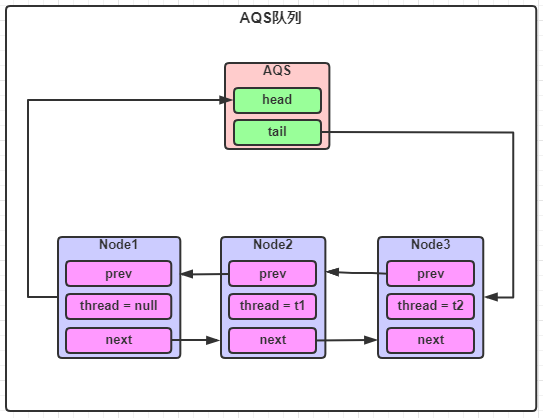
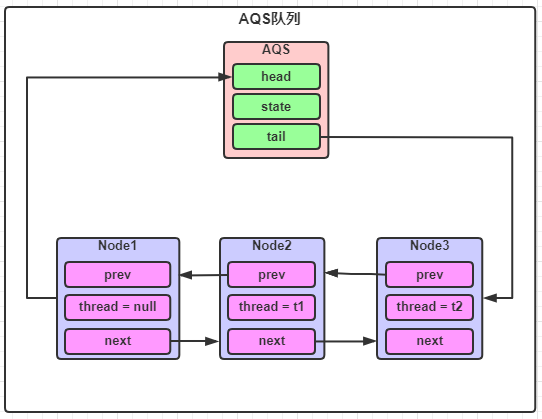
更新aqs head节点的一个结论: head节点中维护的thread一定为null，这代表着有线程持有了锁。同时更新aqs模型图

Changed region(s): [[0.0, 0.0, 1.0, 0.9952], [0.9151, 0.6842, 0.9446, 0.7153]]

diff --git a/src/main/java/com.eugene.basic/concurrency/README.md b/src/main/java/com.eugene.basic/concurrency/README.md
@@ -1675,8 +1675,23 @@
 * **AQS(全称：Abstract Queued Synchronizer)**：其实就是内部维护了一个队列。其实就是维护了两个属性：**Node head**和**Node tail**，具体结构图如下：
 
   ![AQS结构图](./aqs/AQS模型图.png)
+  
+* **为什么aqs队列中的head对应的node节点中的thread为null？**
+
+  ```java
+  head中的thread属性为null有两种情况。
+  第一：当线程A调用lock方法时，aqs队列没有被初始化。此时若线程2在线程1没有释放锁的情况下调用了lock方法，此时就会初始化这么一个aqs队列。此时的head为手动new出来的一个node，里面维护的thread为null。(请注意：这里的thread为null就表示当前有线程被持有锁了，锁被谁持有的呢？在exclusiveOwnerThread属性中可以看到持有锁的线程。)并且这个new出来的node的next指向维护当前线程的Node(即上述的Node2)
+  
+  第二：当head的next属性对应的thread获取到锁时，此时会做一个操作，就是把head移除(即上述的node2要替换node1了)。即修改head的next的引用，把它指向上述的Node2，并把Node1的next的prev属性置为null(其实就是Node2的prev属性)，以及将Node1的next中维护的thread也置为null，方便垃圾回收。
+      
+  所以这里有一个结论，如果aqs队列被初始化了，那么head中维护的thread属性一定为null，因为这个时候就代表有线程持有了这把锁。哪个线程呢？同上，可以在exclusiveOwnerThread属性中看到(在tryAcquire方法中获取锁成功时会将当前线程赋值给exclusiveOwnerThread属性)
+  ```
+
+  
 
 ### 6.4 ReentrantLock 公平锁加锁源码分析
+
+#### 6.4.1 lock方法
 
 * java.util.concurrent.locks.ReentrantLock.FairSync#lock方法
 
@@ -1685,6 +1700,8 @@
       acquire(1);
   }
   ```
+
+#### 6.4.2 acquire方法
 
 * java.util.concurrent.locks.AbstractQueuedSynchronizer#acquire
 
@@ -1715,6 +1732,8 @@
           selfInterrupt();
   }
   ```
+
+#### 6.4.3 tryAcquire方法
 
 * java.util.concurrent.locks.ReentrantLock.FairSync#tryAcquire
 
@@ -1758,6 +1777,8 @@
   }
   ```
 
+#### 6.4.4 hasQueuedProdecessors方法
+
 * java.util.concurrent.locks.AbstractQueuedSynchronizer#hasQueuedPredecessors
 
   ```java
@@ -1783,6 +1804,8 @@
           ((s = h.next) == null || s.thread != Thread.currentThread());
   }
   ```
+
+#### 6.4.5 addWaiter方法
 
 * java.util.concurrent.locks.AbstractQueuedSynchronizer#addWaiter
 
@@ -1813,6 +1836,8 @@
       return node;
   }
   ```
+
+#### 6.4.6 enq方法
 
 * java.util.concurrent.locks.AbstractQueuedSynchronizer#enq
 
@@ -1852,6 +1877,8 @@
   调用enq方法初始化队列示意图
 
   ![第一次执行enq方法初始化队列.png](./aqs/第一次执行enq方法初始化队列.png)
+
+#### 6.4.7 acquireQueued方法
 
 * java.util.concurrent.locks.AbstractQueuedSynchronizer#acquireQueued
 
@@ -1907,6 +1934,8 @@
   }
   ```
 
+#### 6.4.8 shouldParkAfterFailedAcquire方法
+
 * java.util.concurrent.locks.AbstractQueuedSynchronizer#shouldParkAfterFailedAcquire
 
   ```java
@@ -1956,9 +1985,9 @@
   3. 若aqs队列中的第二个节点对应的线程还未释放锁，此时第三个线程进来，第一次加锁失败后，将自己加入到队列。然后在acquireQueued方法中发现自己并不是位于第二个节点，那么会自旋一次，最终进行park操作
   ```
 
-
-
 ### 6.5 ReentrantLock 非公平锁加锁源码分析
+
+#### 6.5.1 lock方法
 
 * java.util.concurrent.locks.ReentrantLock.NonfairSync#lock
 
@@ -1978,7 +2007,7 @@
   }
   ```
 
-  
+  由此可以说明**ReentrantRock**的特征是**`一朝排队，永远排队`**。ReentrantLock的所谓的公平与非公平的本质是**调用lock方法时是直接执行cas操作还是执行acquire操作**
 
 
 
